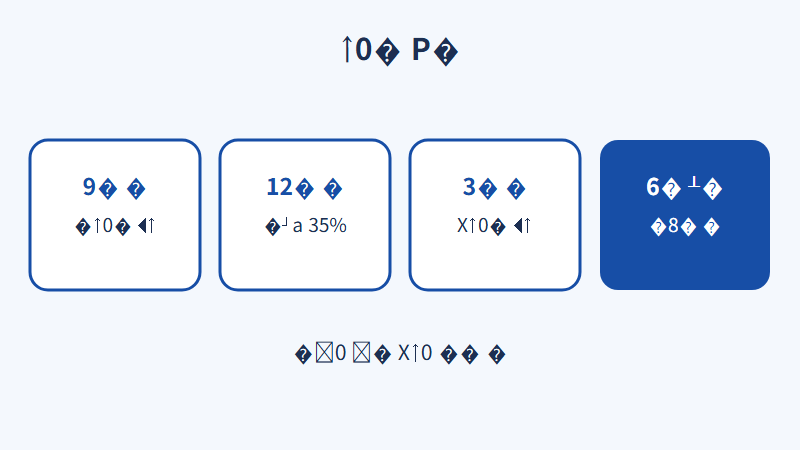
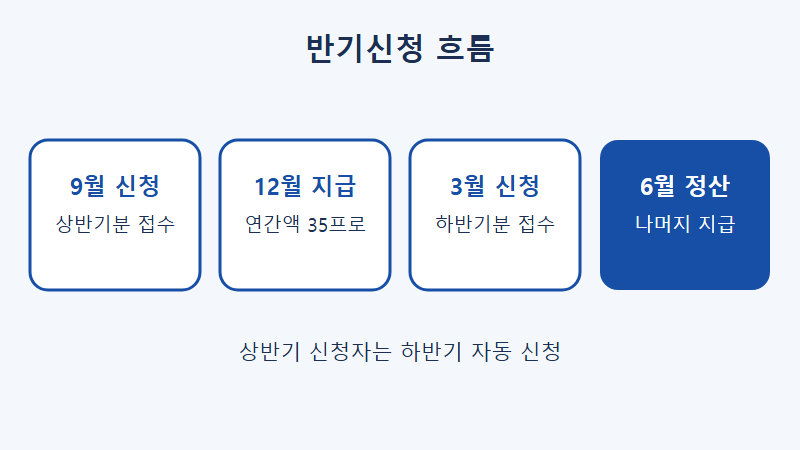
review: b1 2026-earned-income-credit-payment-check-guide (diag Korean fix)

diff --git a/index.html b/index.html
@@ -50,7 +50,7 @@
 <div class="top"><span class="badge">블1 · 정부지원·복지·제도</span><span class="ttl">2026 상반기 근로장려금 12월 지급일과 심사 조회: 하반기 신청까지 정리</span><button type="button" class="copy" data-tab="b1">HTML 복사</button></div>
 <div class="titlebox"><input id="title-b1" value="2026 상반기 근로장려금 12월 지급일과 심사 조회: 하반기 신청까지 정리" readonly aria-label="글 제목"><button type="button" class="copyt" data-tab="b1">제목 복사</button></div>
 <div class="slots" id="slots-b1" style="display:none"></div>
-<div class="thumb"><img src="https://kmt9934.github.io/blog-review/b1/thumbnail.png?v=2026-10-09T22:02" alt="2026 상반기 근로장려금 12월 지급일과 심사 조회: 하반기 신청까지 정리 썸네일"></div>
+<div class="thumb"><img src="https://kmt9934.github.io/blog-review/b1/thumbnail.png?v=2026-10-09T22:14" alt="2026 상반기 근로장려금 12월 지급일과 심사 조회: 하반기 신청까지 정리 썸네일"></div>
 <div class="toolbar"><button type="button" data-cmd="bold"><b>B</b></button><button type="button" data-cmd="italic"><i>I</i></button><button type="button" data-cmd="formatBlock" data-val="h2">제목</button><button type="button" data-cmd="formatBlock" data-val="h3">소제목</button><button type="button" data-cmd="formatBlock" data-val="p">본문</button><button type="button" data-cmd="insertUnorderedList">• 목록</button></div>
 <div class="editor" id="ed-b1" contenteditable="true"></div>
 <div class="hint">이 탭의 글만 수정·복사됩니다. 「제목 복사」 → 블로그 제목 칸, 「HTML 복사」(제목 h1 제외) → 본문(HTML 모드)에 붙여넣기. 제목 칸을 비워 두지 마세요. 자동 발행은 하지 않습니다.</div>
